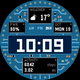
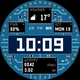
Circuit 1.0.1: Uhrzeit vertikal mittig im Fenster
Die Ziffern sassen 3 px zu tief (oben 13, unten 7 px Luft), jetzt
10/10 auf Emery und Gabbro. Screenshots und Icons neu erzeugt.

diff --git a/src/c/circuit.c b/src/c/circuit.c
@@ -80,7 +80,7 @@ static const Theme THEMES[] = {
 #define LED_H            5
 #define ROW_H            18
 #define WINDOW_RADIUS    4
-#define TIME_Y_NUDGE     6      // LECO-Box hat oben mehr Luft als unten
+#define TIME_Y_NUDGE     9      // LECO-Box hat oben mehr Luft als unten (gemessen)
 #define ICON_W           22
 #define ICON_H           20
 

diff --git a/README.md b/README.md
@@ -4,7 +4,7 @@
 
 <img src="screenshots/shot_emery_green.png" alt="Emery, green board"> <img src="screenshots/shot_emery_blue.png" alt="Emery, blue board"> <img src="screenshots/shot_emery_red.png" alt="Emery, red board"> <img src="screenshots/shot_gabbro_green.png" alt="Gabbro, green board"> <img src="screenshots/shot_gabbro_blue.png" alt="Gabbro, blue board"> <img src="screenshots/shot_gabbro_red.png" alt="Gabbro, red board">
 
-A Pebble watchface (v1.0.0).
+A Pebble watchface (v1.0.1).
 
 Circuit turns your watch into a populated circuit board. Copper traces run
 between the parts, vias and gold pads line the edges, and every reading has
@@ -57,6 +57,11 @@ screenshots, enable `DEMO` at the top of `src/c/circuit.c`; it fills the
 chips with fixed sample values and lets `DEMO_BOARD` pick the colour.
 
 ## Release notes
+
+### 1.0.1
+
+The time now sits exactly in the middle of its window; it was three pixels
+too low.
 
 ### 1.0.0
 
